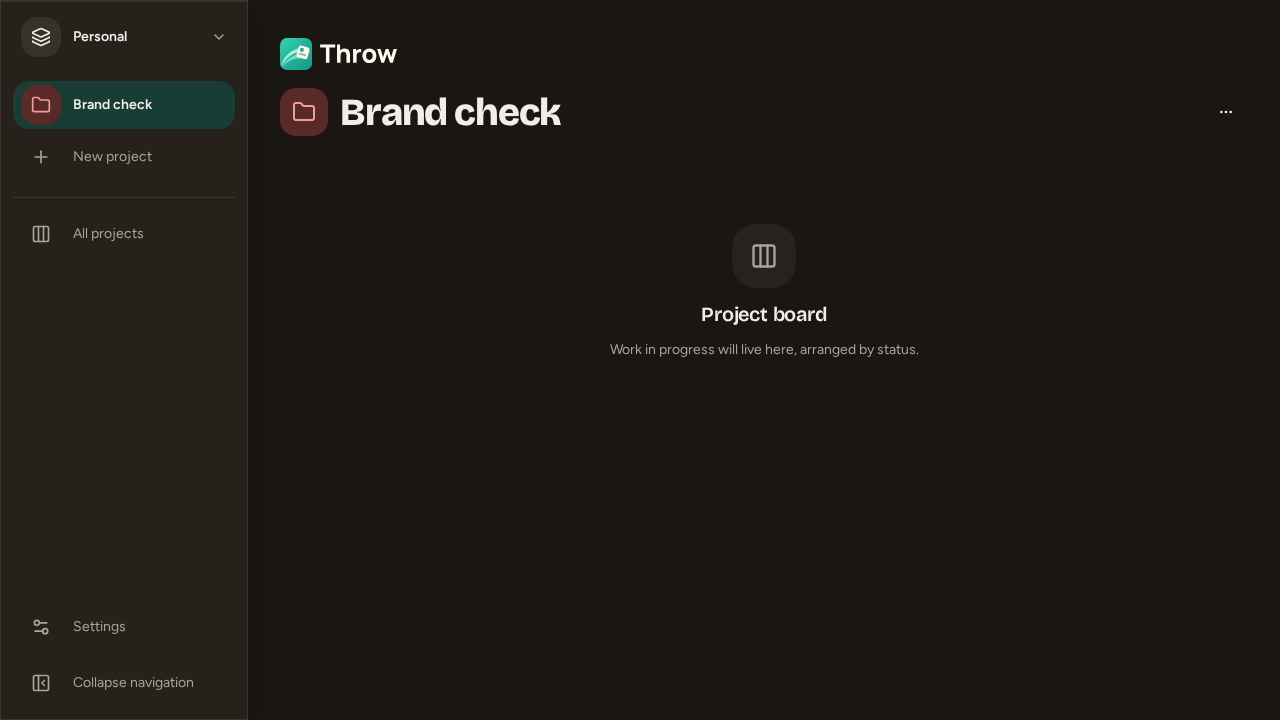
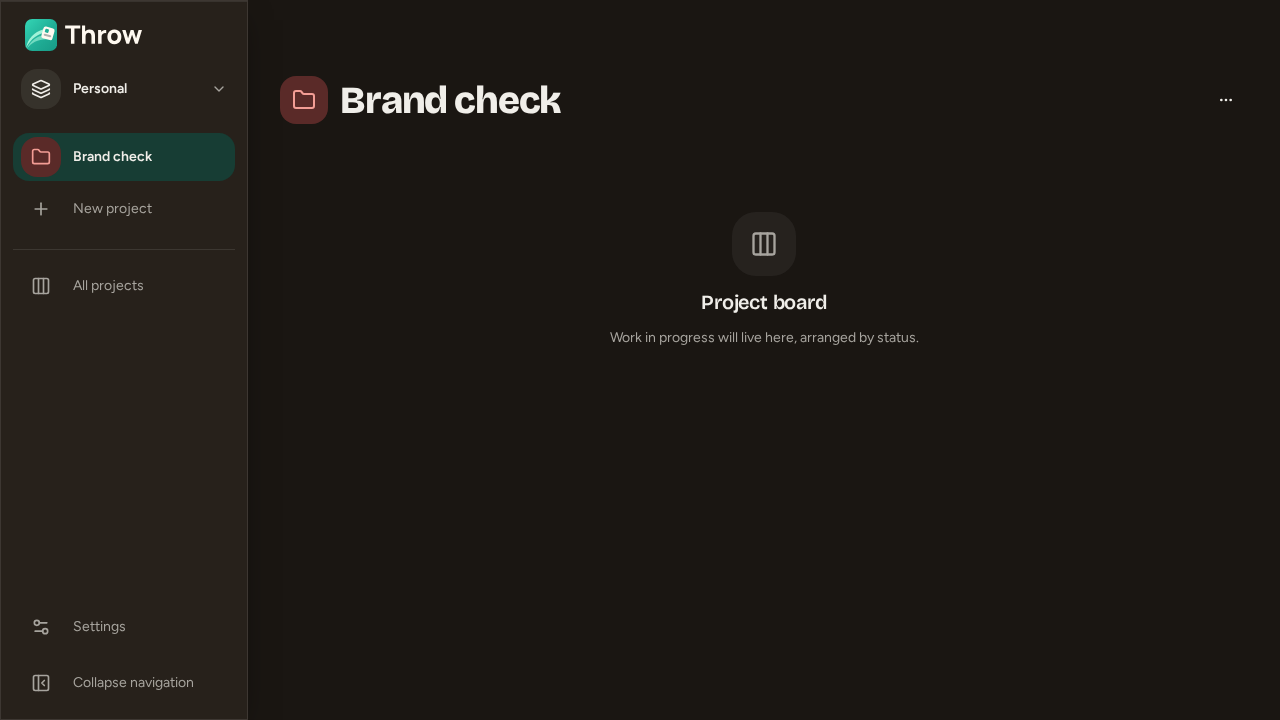
feat(branding): move the lockup into the navigation rail

diff --git a/e2e/branding.spec.ts b/e2e/branding.spec.ts
@@ -128,13 +128,41 @@ test('brand surfaces preserve artwork, contrast and usable layout on light and d
   await expect(page.getByRole('heading', { name: 'Personal' })).toBeVisible({
     timeout: APP_LOAD_TIMEOUT,
   });
-  // The phone header gives its one quiet line to the workspace; only the wide header is branded.
+  // The rail carries the brand; the phone layout has no rail and names the workspace instead.
   if (isMobile) await expect(brand).toHaveCount(0);
-  else
+  else {
+    const rail = page.getByRole('complementary', { name: 'Navigation rail', exact: true });
+    await expect(rail.getByRole('img', { name: 'Throw', exact: true })).toHaveAttribute(
+      'src',
+      '/wordmarks/throw-lockup-horizontal-stable-light-micro.svg',
+    );
+    await expect(brand).toHaveCount(1);
+    await page.getByRole('button', { name: 'Collapse navigation', exact: true }).click();
+    await expect(brand).toHaveAttribute('src', '/favicon-mark.svg');
+    await expect
+      .poll(() =>
+        brand.evaluate(
+          (image) => image instanceof HTMLImageElement && image.complete && image.naturalWidth > 0,
+        ),
+      )
+      .toBe(true);
+    // The mark shares the collapsed rail's icon column.
+    await expect
+      .poll(async () => {
+        const mark = await brand.boundingBox();
+        const settings = await page
+          .getByRole('link', { name: 'Settings', exact: true })
+          .boundingBox();
+        return Math.abs(mark!.x + mark!.width / 2 - (settings!.x + settings!.width / 2));
+      })
+      .toBeLessThan(1);
+    await page.screenshot({ path: info.outputPath('shell-collapsed-dark.png') });
+    await page.getByRole('button', { name: 'Expand navigation', exact: true }).click();
     await expect(brand).toHaveAttribute(
       'src',
       '/wordmarks/throw-lockup-horizontal-stable-light-micro.svg',
     );
+  }
 
   await addProject(page, 'Brand check', isMobile);
   const selected = isMobile

diff --git a/apps/web/src/components/PageHeader/PageHeader.tsx b/apps/web/src/components/PageHeader/PageHeader.tsx
@@ -1,7 +1,6 @@
 import { Ellipsis } from 'lucide-react';
 import { ShellMenu } from '@/components/AppShell/ShellMenu';
 import { useShell } from '@/components/AppShell/shell';
-import { BrandLockup } from '@/components/BrandLockup/BrandLockup';
 import { IconButton } from '@/components/IconButton/IconButton';
 import { ProjectIcon } from '@/components/ProjectIcon/ProjectIcon';
 import { SyncIndicator } from '@/components/SyncIndicator/SyncIndicator';
@@ -16,15 +15,9 @@ export function PageHeader({ desktop }: { desktop: boolean }) {
       : (shell.project?.name ?? shell.workspace?.name ?? 'Throw');
   return (
     <header className="relative px-5 pt-[calc(var(--safe-top)+1rem)] pb-4 md:px-8 md:pt-[calc(var(--safe-top)+2rem)] md:pb-6">
-      <div className="flex min-h-8 items-center justify-between gap-3 text-xs text-muted-foreground">
-        {desktop ? (
-          // The lockup carries its own clear space; pull it back so the mark meets the title's edge.
-          <div className="-ml-1.5 min-w-0">
-            <BrandLockup orientation="horizontal" iconSize={32} />
-          </div>
-        ) : (
-          <span className="truncate">{shell.workspace?.name}</span>
-        )}
+      <div className="flex h-8 items-center justify-between gap-3 text-xs text-muted-foreground">
+        {/* The rail carries the brand on wide screens. */}
+        <span className="truncate">{desktop ? null : shell.workspace?.name}</span>
         <SyncIndicator />
       </div>
       <div className="mt-3 flex min-w-0 items-center gap-3">

diff --git a/apps/web/src/components/AppShell/AppShell.tsx b/apps/web/src/components/AppShell/AppShell.tsx
@@ -12,6 +12,7 @@ import {
   type ShellState,
   viewSchema,
 } from '@/components/AppShell/shell';
+import { BrandLockup } from '@/components/BrandLockup/BrandLockup';
 import { Dock } from '@/components/Dock/Dock';
 import { PageHeader } from '@/components/PageHeader/PageHeader';
 import { ProjectIcon } from '@/components/ProjectIcon/ProjectIcon';
@@ -160,6 +161,13 @@ export function AppShell() {
             transition={reduced ? { duration: 0 } : { ...springs.smooth, bounce: 0 }}
             className="glass sticky top-0 flex h-dvh shrink-0 flex-col overflow-hidden border-y-0 border-l-0 pt-[calc(var(--safe-top)+0.75rem)] pb-[calc(var(--safe-bottom)+0.75rem)] pl-[var(--safe-left)]"
           >
+            {/*
+              Inset so the mark sits on the rail's icon column. The lockup measures this box
+              and falls back to the mark alone once the collapsed rail is too narrow for it.
+            */}
+            <div className="mb-2 pr-3 pl-[1.125rem]">
+              <BrandLockup orientation="horizontal" iconSize={32} />
+            </div>
             <div className="px-3">
               <ShellMenu expanded={expanded} />
             </div>

diff --git a/docs/branding-validation.md b/docs/branding-validation.md
@@ -13,7 +13,7 @@ Validated on 2026-10-13. Android project creation remains deferred by request.
 | `apps/web/vite.config.ts`, `apps/web/index.html` | Existing channel selection wired to manifest icons, favicons and Apple touch icons |
 | `apps/web/src/styles.css`, `apps/web/src/components/ui/button.tsx` | Approved jade actions, links, focus and selected/hover states with a readable primary-button hover fill |
 | `apps/web/src/components/BrandLockup/` | Responsive, theme-aware supplied artwork with detail/minimum-size handling and tests |
-| `apps/web/src/routes/login.tsx`, `setup.tsx`, `apps/web/src/components/PageHeader/` | Branding on the sign-in, server-setup and wide page-header surfaces |
+| `apps/web/src/routes/login.tsx`, `setup.tsx`, `apps/web/src/components/AppShell/` | Branding on the sign-in, server-setup and navigation-rail surfaces |
 | `apps/web/src/components/AppShell/`, `Dock/`, `ShellForms/`, `apps/web/src/routes/_app/settings.tsx` | Jade selected and hover surfaces on the rail, dock indicator, shell menu, icon grid and theme choice |
 | `scripts/brand-assets.test.ts`, `e2e/branding.spec.ts` | Favicon, mask/safe-zone, themed-alpha, theme-preference and narrow/offline-layout checks |
 | `package.json`, `pnpm-lock.yaml`, `biome.json` | Locked renderer dependency, generation/integrity commands and protection against formatting the source package |
@@ -54,7 +54,9 @@ E2E_FIREFOX=1 ./scripts/dev.sh e2e e2e/branding.spec.ts --workers=1
 - After the rebase onto the navigation shell, the same three-project branding run also
   checks that the current rail destination, the dock indicator and the pressed theme choice
   paint the jade selected surface, that selection leaves the previous rail item, and that
-  rail and theme lettering keep 4.5:1 on it. Auth and project specs were rerun on Chromium.
+  rail and theme lettering keep 4.5:1 on it. It also checks that the expanded rail shows
+  the lockup and the collapsed rail the loaded mark alone, centred on the icon column.
+  Auth and project specs were rerun on Chromium.
 - The final jade-palette run checks normal and hovered primary-button text and link text
   against a 4.5:1 contrast floor, plus keyboard-focused input borders against a 3:1 floor,
   on actual light/dark rendered surfaces in all three browser/layout projects.
@@ -77,8 +79,9 @@ and native resources. Native masks/tint in this proof are simulations, not launc
 [phone sign-in, dark](branding/sign-in-dark-phone.png),
 [phone server setup, dark](branding/server-setup-dark-phone.png), and
 [narrow offline header](branding/header-offline-narrow.png) show the existing app surfaces.
-[Desktop shell, dark](branding/shell-dark-desktop.png) and
-[phone shell, dark](branding/shell-dark-phone.png) show the header lockup and selected
+[Desktop shell, dark](branding/shell-dark-desktop.png),
+[collapsed rail](branding/shell-collapsed-dark-desktop.png) and
+[phone shell, dark](branding/shell-dark-phone.png) show the rail lockup and selected
 states. `docs/screenshots/app-shell/` predates the jade palette.
 
 ## Unavailable validation

diff --git a/docs/branding.md b/docs/branding.md
@@ -80,8 +80,10 @@ Each placement has one accessible “Throw” image; there is no duplicate live 
 
 Existing surfaces use stable product artwork, following Catch's in-app convention:
 sign-in has a horizontal lockup with a 48 px icon, first-run server setup a stacked lockup
-with a 96 px icon, and the wide (rail) page header a horizontal lockup with a 32 px icon.
-The phone header has no artwork: its one quiet line names the workspace. These
+with a 96 px icon, and the navigation rail a horizontal lockup with a 32 px icon at its
+top. The collapsed rail is narrower than the lockup's minimum, so it shows the mark alone,
+on the rail's icon column. The phone layout has no rail and no artwork: its header's one
+quiet line names the workspace. These
 SVGs also work directly in Capacitor's WebView. Application typography is unchanged and
 the bundled Manrope font is retained only as source provenance. The tagline is available
 in the sources but is not added to these compact functional surfaces.
